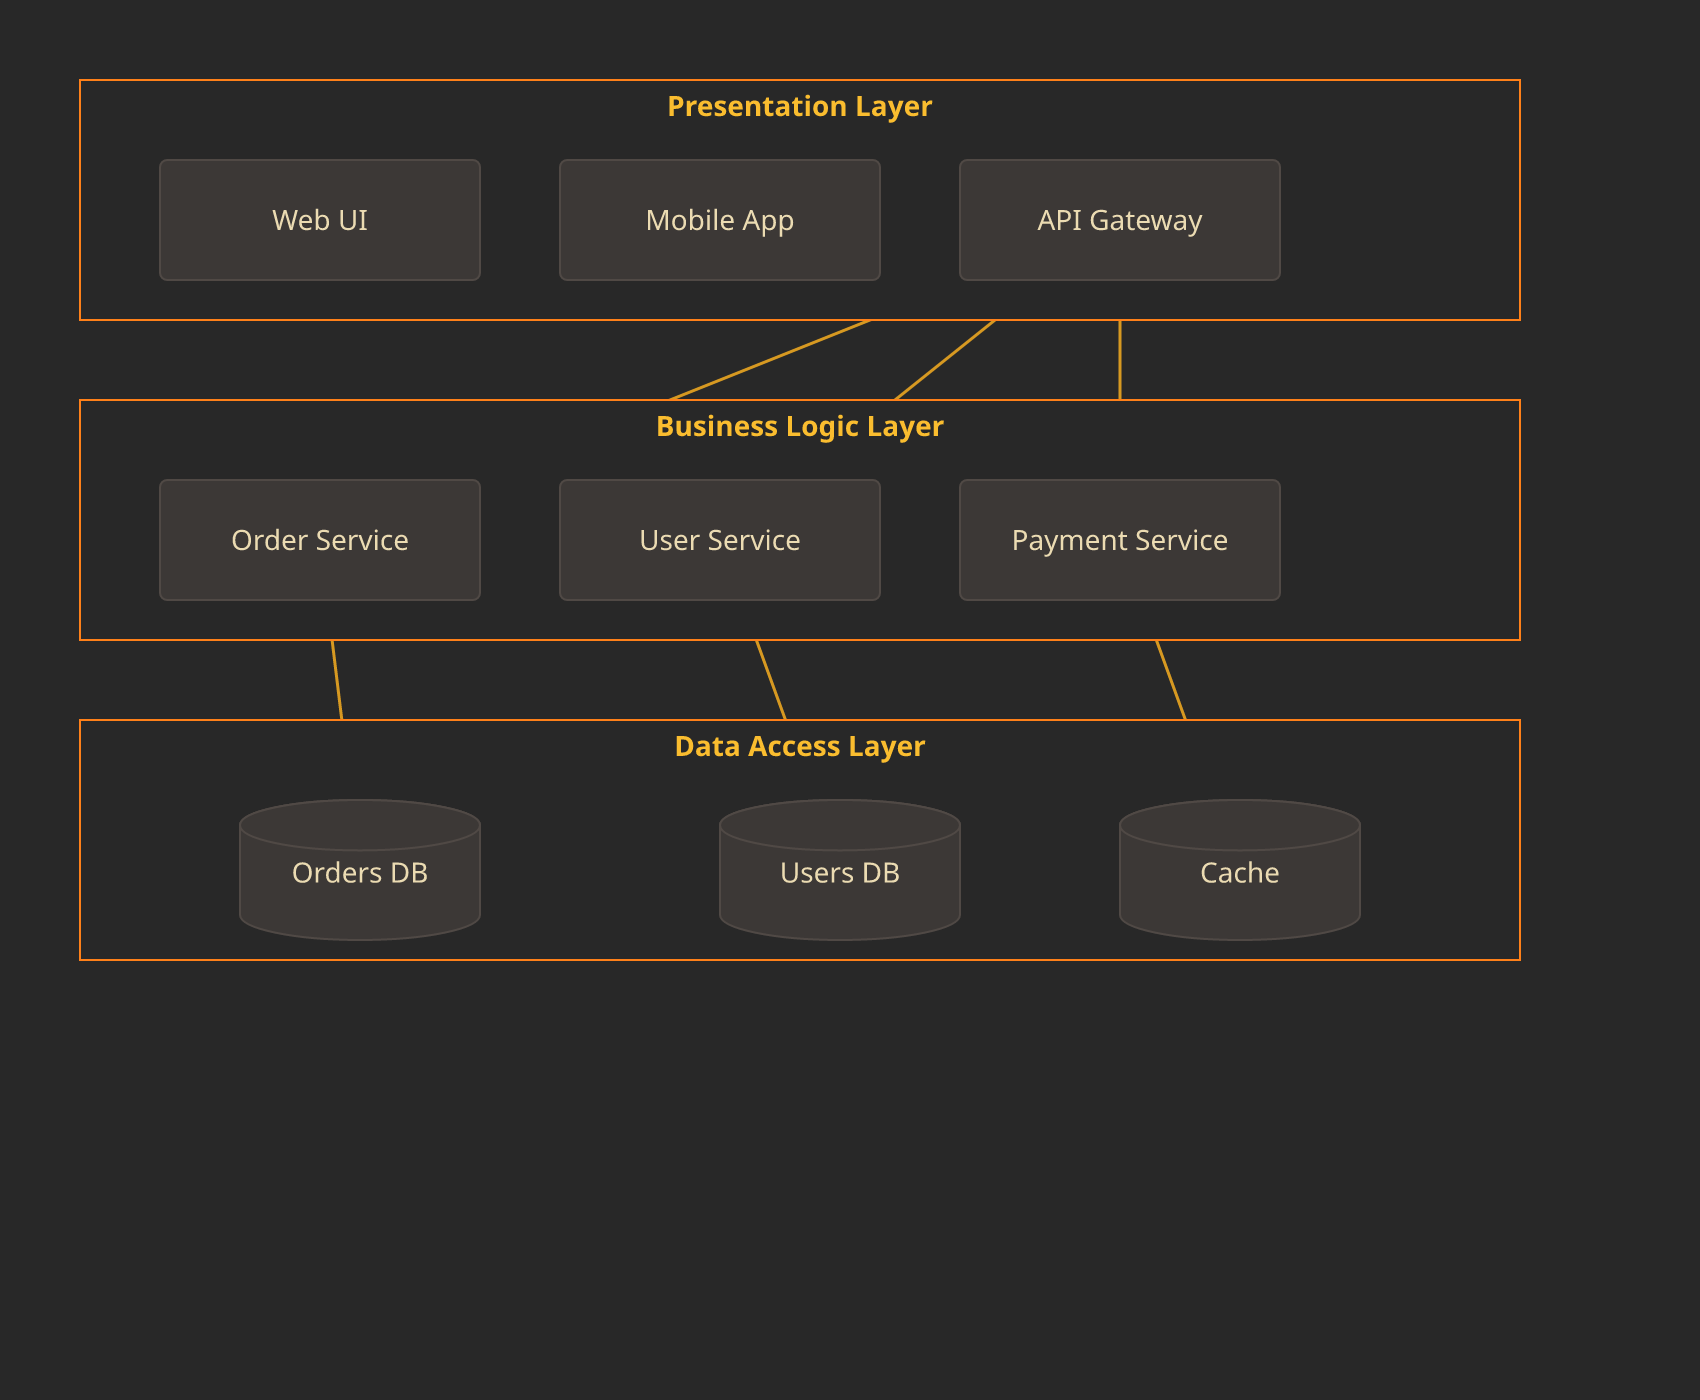
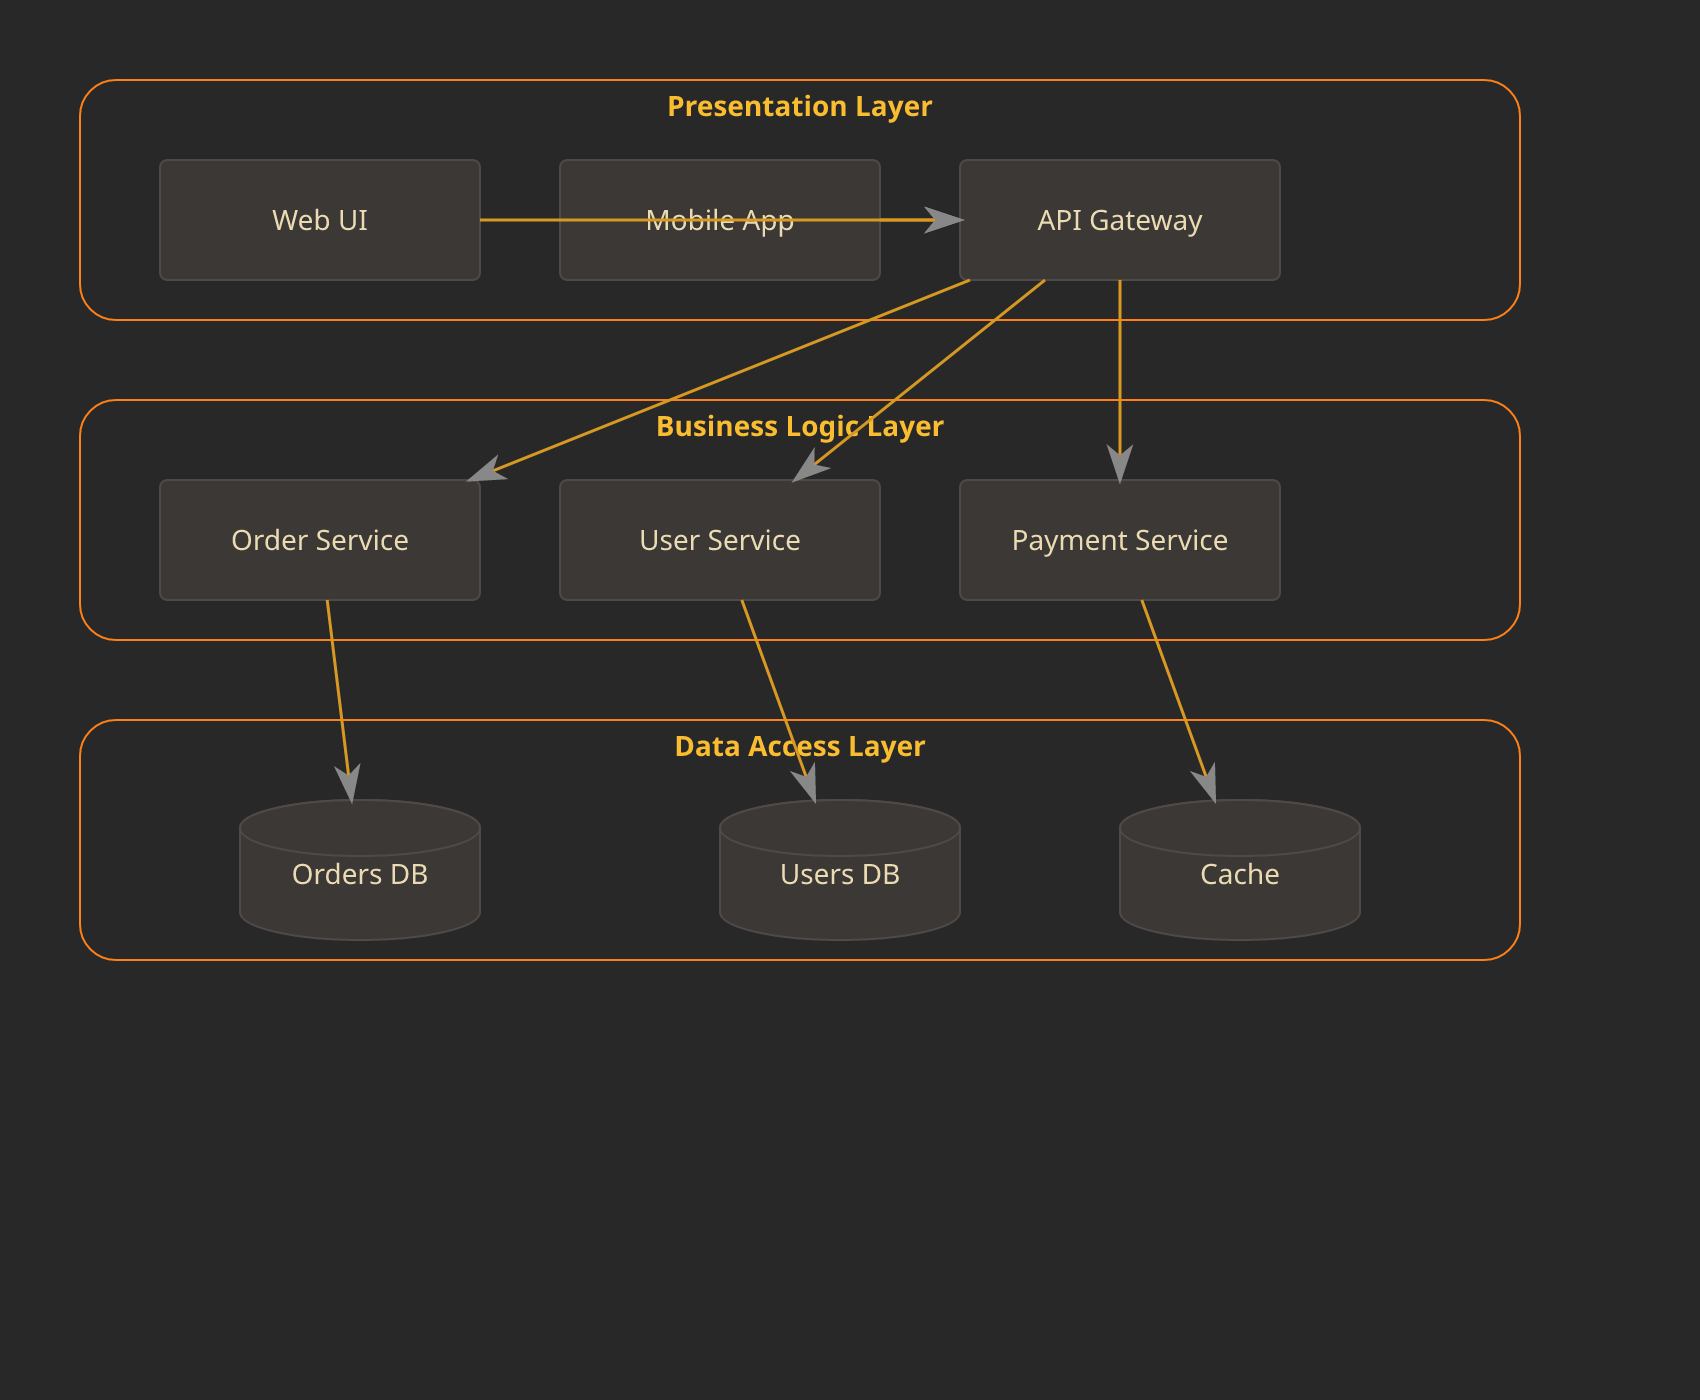
fix: paint edges over containers by document order, not always behind (#60)
Root cause: renderPage's final page assembly force-bucketed all edges
behind all nodes ([...edgeSvg, ...nodeSvg]), regardless of the model's
actual document/z-order. Real draw.io paints cells in document order
(later-declared cells on top); since edges are conventionally declared
after all vertex cells in real draw.io exports, real draw.io paints
edges on top of everything, including any container whose fill an edge
visually crosses. Verified against the real draw.io web app
(app.diagrams.net) as ground truth: an edge crossing a container's
interior renders visibly on top of that container's fill/title there,
but was previously swallowed by the container in our renderer.

Fix: track each vertex/edge's rendered markup by its own cell id instead
of two hard-ordered buckets, then paint in one combined order sorted by
the same ancestor-depth hoist already used for container-before-child
ordering (issue #27/#35), falling back to a stable sort that preserves
each cell's original relative document position - so an edge naturally
lands after any container that already painted before it, instead of
being force-placed at the very back.

Also regenerated all docs/assets images (theme gallery + hero demo) from
the fixed renderer, and switched the demo fixture's edges from
`edgeStyle=orthogonalEdgeStyle` to `edgeStyle=none` (straight lines) -
verified both choices against the real draw.io web app as ground truth
before deciding.
[…]

diff --git a/src/render/svg.ts b/src/render/svg.ts
@@ -1033,7 +1033,7 @@ function renderPage(
   defs: string[],
   gradientIds: Map<string, string>,
   markerIds: Map<string, string>,
-): { nodeSvg: string[]; edgeSvg: string[]; width: number; height: number; background?: string } {
+): { paintSvg: string[]; width: number; height: number; background?: string } {
   const modelDoc = new DOMParser().parseFromString(modelXml, "text/xml");
   const root = modelDoc.documentElement as unknown as XmlElement;
   // Per-page background color (issue #58, 7b): real draw.io stores this as
@@ -1579,7 +1579,13 @@ function renderPage(
     return ensureMarkerId(markerKind, scale, end === "start");
   }
 
-  const edgeSvg: string[] = [];
+  // Markup for each edge/vertex cell is kept keyed by its own cell id
+  // (rather than in two hard-"edges behind nodes" buckets) so the final
+  // paint order below can interleave them by real document/z-order,
+  // matching real draw.io - an edge declared after a container in the
+  // XML (the common case) paints on top of that container's fill instead
+  // of being unconditionally hidden behind every node (issue #60).
+  const svgById = new Map<string, string>();
   for (const cell of cells) {
     if (cell.getAttribute("edge") !== "1") continue;
     const edgeId = cell.getAttribute("id");
@@ -1607,10 +1613,8 @@ function renderPage(
         : `<line x1="${p1x.toFixed(1)}" y1="${p1y.toFixed(1)}" x2="${p2x.toFixed(1)}" ` +
           `y2="${p2y.toFixed(1)}" stroke="${stroke}" stroke-width="${strokeWidth}" ` +
           `stroke-opacity="${strokeOpacity}"${dashArray}${markerAttrs}/>`;
-    if (glow === "filter") {
-      edgeSvg.push(`<g filter="url(#softGlow)">${shape}</g>`);
-    } else {
-      edgeSvg.push(shape);
+    if (edgeId) {
+      svgById.set(edgeId, glow === "filter" ? `<g filter="url(#softGlow)">${shape}</g>` : shape);
     }
   }
 
@@ -1663,7 +1667,6 @@ function renderPage(
     return Number(!isContainer(a)) - Number(!isContainer(b));
   });
 
-  const nodeSvg: string[] = [];
   for (const cell of sortedVertices) {
     const id = cell.getAttribute("id") ?? "";
     if (isHidden(id)) continue;
@@ -2158,11 +2161,28 @@ function renderPage(
     if (!Number.isNaN(rotation) && rotation !== 0) {
       const cx = x + w / 2;
       const cy = y + h / 2;
-      nodeSvg.push(`<g transform="rotate(${rotation} ${cx} ${cy})">${cellSvg.join("")}</g>`);
+      svgById.set(id, `<g transform="rotate(${rotation} ${cx} ${cy})">${cellSvg.join("")}</g>`);
     } else {
-      nodeSvg.push(...cellSvg);
+      svgById.set(id, cellSvg.join(""));
     }
   }
+
+  // Real draw.io paints cells in document/z-order (later-declared cells on
+  // top), not "all edges behind all nodes" - an edge declared after a
+  // container in the XML (the common case) must paint on top of that
+  // container's fill instead of being swallowed by it (issue #60). Reuse
+  // the same ancestor-depth hoist as `sortedVertices` (a container must
+  // still paint before its own descendants regardless of raw document
+  // order - issue #35) but apply it uniformly to edges and vertices alike,
+  // falling back to a stable sort so same-depth/same-containerness cells
+  // keep their original relative document order.
+  const paintOrder = cells.filter((c) => svgById.has(c.getAttribute("id") ?? ""));
+  paintOrder.sort((a, b) => {
+    const depthDiff = depthOf(a.getAttribute("id") ?? "") - depthOf(b.getAttribute("id") ?? "");
+    if (depthDiff !== 0) return depthDiff;
+    return Number(!isContainer(a)) - Number(!isContainer(b));
+  });
+  const paintSvg = paintOrder.map((c) => svgById.get(c.getAttribute("id") ?? "") ?? "");
 
   /**
    * The renderer used to hard-code an 850x700 canvas regardless of the
@@ -2187,7 +2207,7 @@ function renderPage(
   const diagramWidth = Math.max(modelPageWidth, bboxRight ? bboxRight + margin : 0) || 850;
   const diagramHeight = Math.max(modelPageHeight, bboxBottom ? bboxBottom + margin : 0) || 700;
 
-  return { nodeSvg, edgeSvg, width: diagramWidth, height: diagramHeight, background: pageColor };
+  return { paintSvg, width: diagramWidth, height: diagramHeight, background: pageColor };
 }
 
 /** Gap in px drawn between stacked pages when a document has more than one. */
@@ -2260,9 +2280,7 @@ export function renderDrawioToSvg(drawioXml: string, options: RenderOptions = {}
           `<rect x="0" y="0" width="${page.width}" height="${page.height}" fill="${page.background}"/>`,
         ]
       : [];
-    pageGroups.push(
-      `<g${translate}>${[...pageBackground, ...page.edgeSvg, ...page.nodeSvg].join("\n")}</g>`,
-    );
+    pageGroups.push(`<g${translate}>${[...pageBackground, ...page.paintSvg].join("\n")}</g>`);
     yOffset += page.height + PAGE_GAP;
   }
   const canvasHeight = yOffset > 0 ? yOffset - PAGE_GAP : 0;

diff --git a/test/render/svg.test.ts b/test/render/svg.test.ts
@@ -139,6 +139,30 @@ describe("renderDrawioToSvg", () => {
     expect(svg).toContain('x="15"');
   });
 
+  it("paints an edge declared after a container on top of that container's fill instead of behind it (issue #60)", () => {
+    const xml = drawio(
+      '<mxCell id="0"/><mxCell id="1" parent="0"/>' +
+        '<mxCell id="box" value="Box" style="rounded=1;fillColor=#fafafa;container=1;" ' +
+        'vertex="1" parent="1"><mxGeometry x="0" y="0" width="200" height="200" as="geometry"/></mxCell>' +
+        '<mxCell id="a" style="fillColor=#eeeeee;" vertex="1" parent="1">' +
+        '<mxGeometry x="10" y="10" width="20" height="20" as="geometry"/></mxCell>' +
+        '<mxCell id="b" style="fillColor=#eeeeee;" vertex="1" parent="1">' +
+        '<mxGeometry x="150" y="150" width="20" height="20" as="geometry"/></mxCell>' +
+        // Declared last, after the container, in document order - matching
+        // how real draw.io exports place edges after all vertex cells.
+        '<mxCell id="e1" style="edgeStyle=none;strokeColor=#ff00ff;" edge="1" parent="1" ' +
+        'source="a" target="b"><mxGeometry relative="1" as="geometry"/></mxCell>',
+    );
+
+    const svg = renderDrawioToSvg(xml);
+
+    // The container's own fill/rect must paint first so the edge (which
+    // crosses over the container's interior) renders on top of it instead
+    // of being hidden behind it - matching real draw.io's document-order
+    // (not "all edges behind all nodes") paint order.
+    expect(svg.indexOf("#fafafa")).toBeLessThan(svg.indexOf("#ff00ff"));
+  });
+
   it("computes a swimlane container's corner arc from startSize using mxSwimlane's formula (issue #39)", () => {
     const xml = drawio(
       '<mxCell id="0"/><mxCell id="1" parent="0"/>' +
